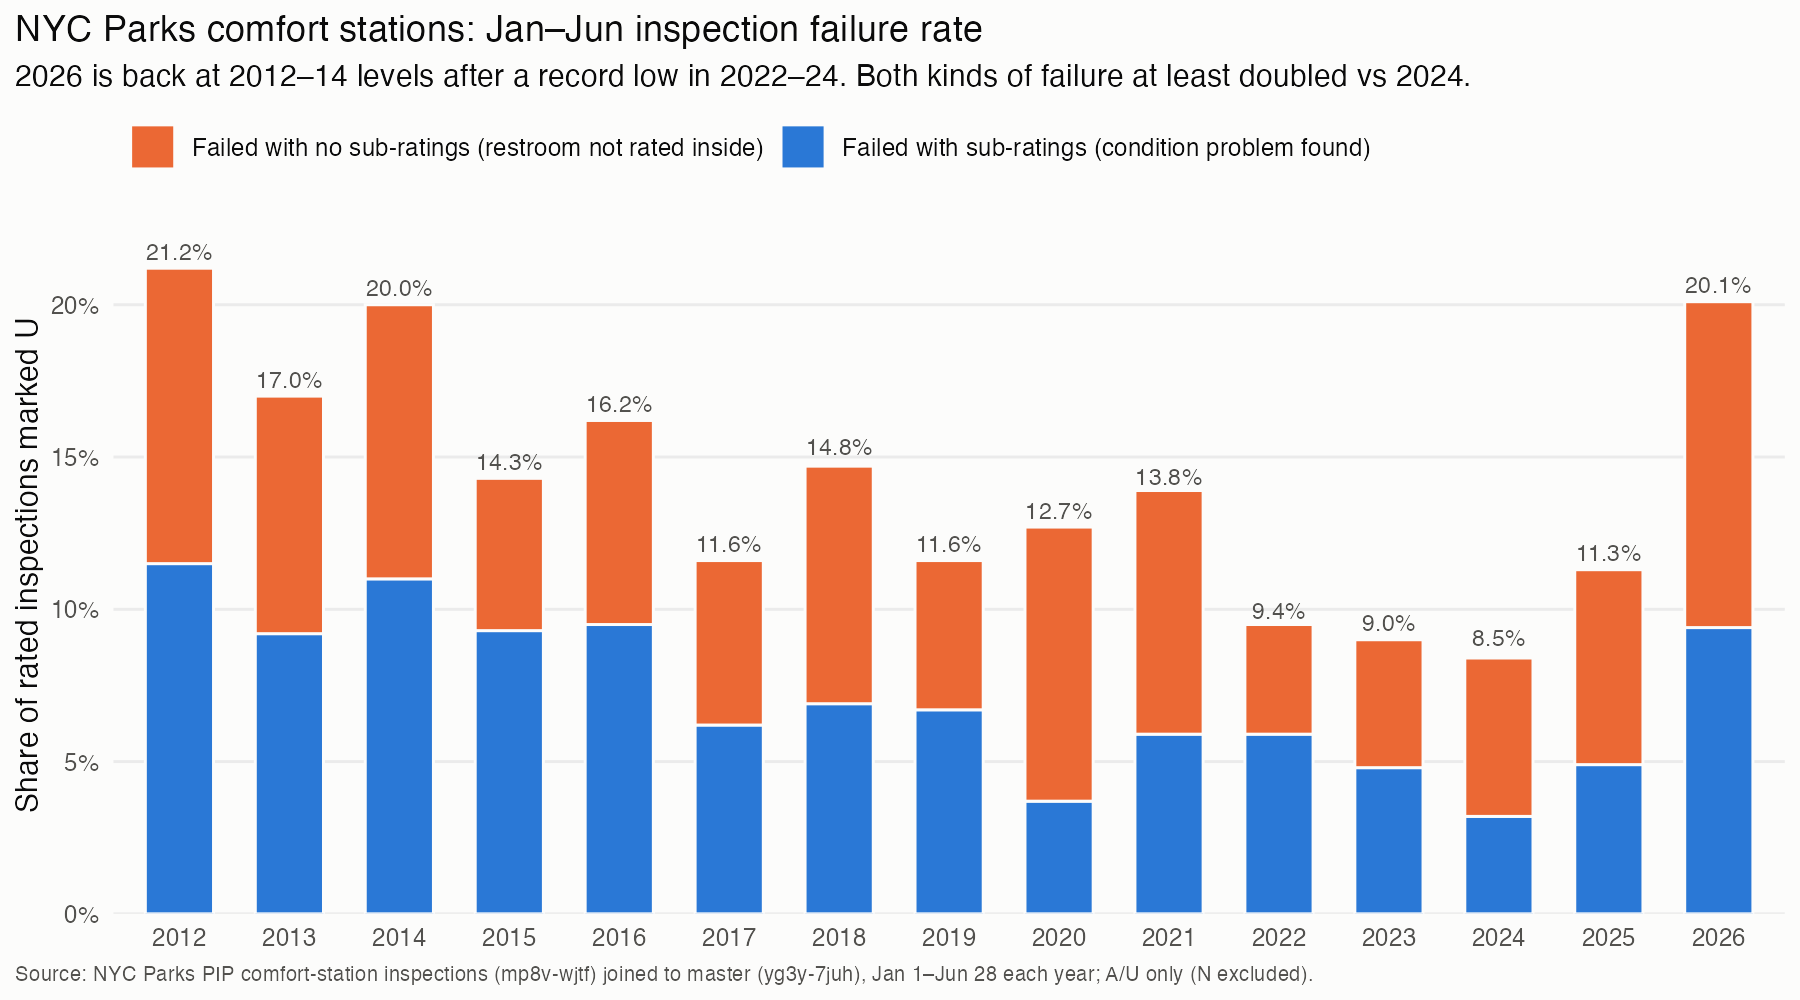
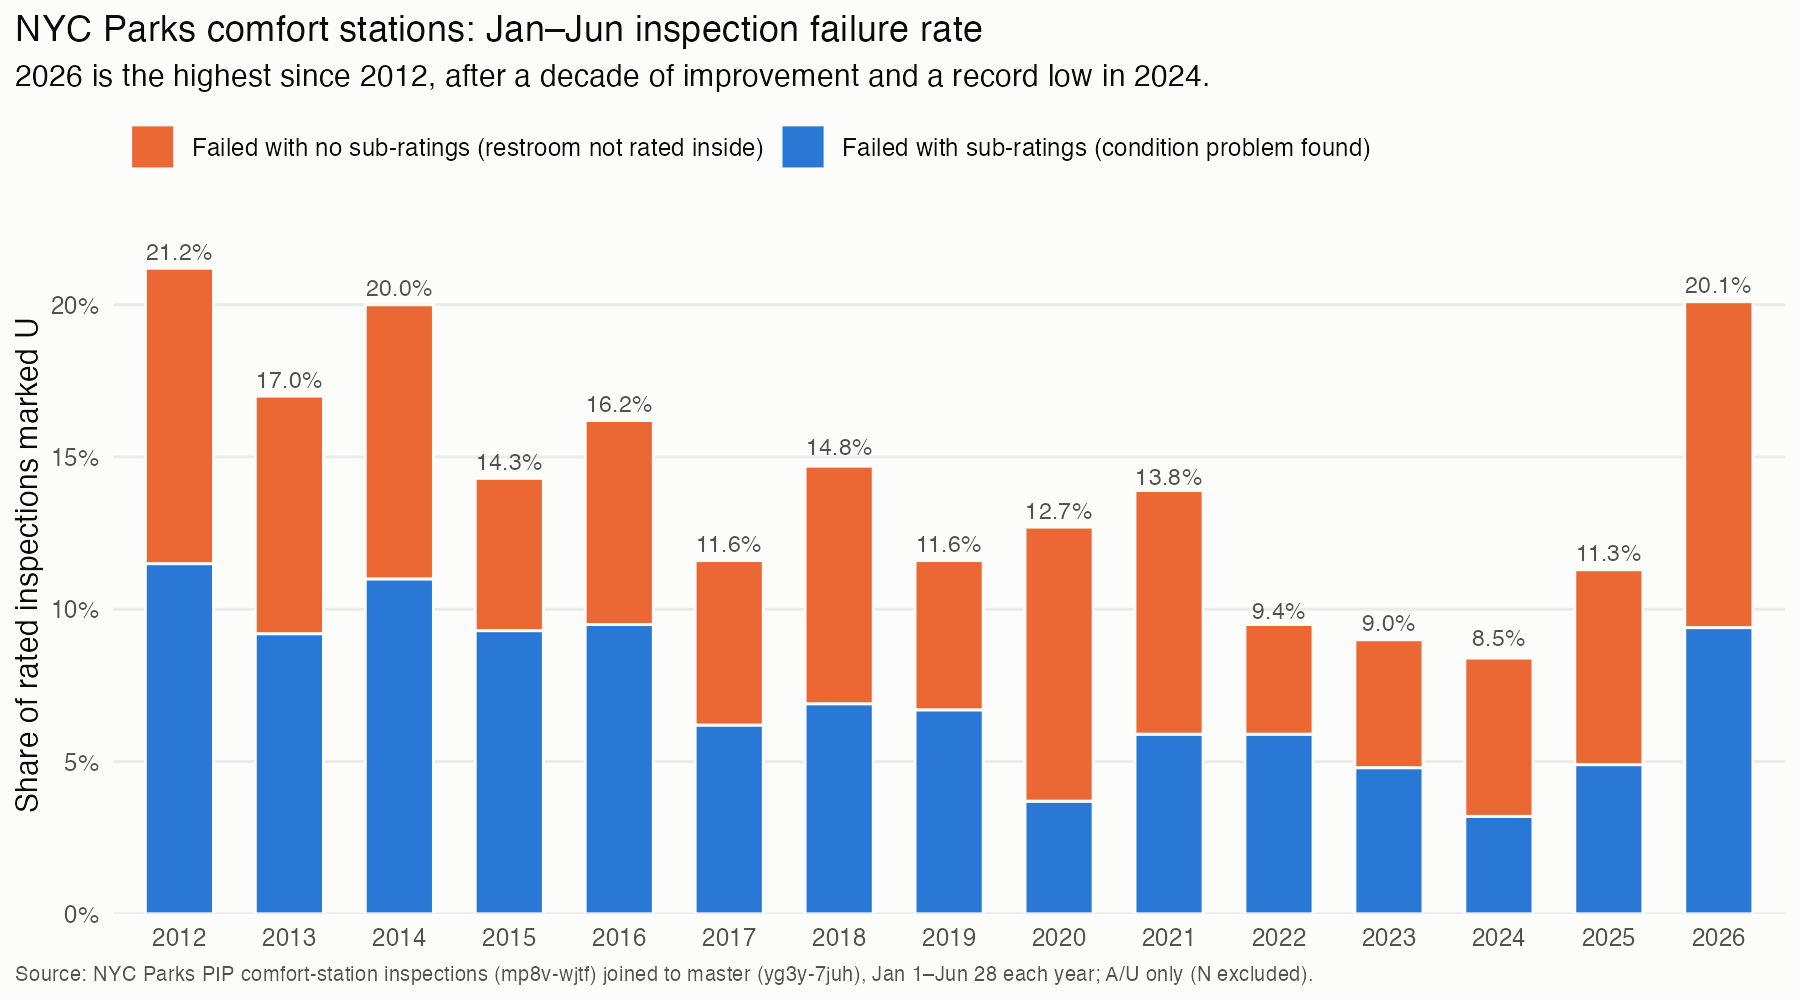
Pivot page: substantive fixes from both cold reads
Charts now match the text (9pm late-close scenario, 2024-only record low, 3-year rule highlighted as a
1-in-5 vs 1-in-8 hit rate). Corrected: logistic, not last-3, won 2024 validation; headline unit is
inspections Jan-Jun, not restrooms 'this spring'; recommendation is a pilot compared with Parks' own
targeting; power figure flagged as a simplified first calculation; evening access framed as estimated;
30% evening share compared with dirty-street complaints (18%).

Changed region(s): [[0.0622, 0.062, 0.8089, 0.093]]

diff --git a/pivot.html b/pivot.html
@@ -363,7 +363,7 @@ figure.chart a.zoom{display:block}
   <nav class="verswitch" aria-label="Site version"><a href="index.html">Current version</a><a href="pivot.html" aria-current="page">Proposed pivot · draft</a></nav>
   <p class="eyebrow">PMBA6093 · Analytics for Managers · Final project · <strong>proposed direction, for team discussion</strong></p>
   <h1>Verify, fix, test</h1>
-  <p class="standfirst">New York has set a target of 2,120 public restrooms by 2035 and has 975 today. Public data cannot prove where new ones are needed. It can show that the restrooms the City already has are failing inspection more often, and it can tell Parks where to check first. So: <strong>verify</strong> where complaints point before building, <strong>fix</strong> the stock with targeted checks, and <strong>test</strong> what works with two randomised trials.</p>
+  <p class="standfirst">New York has set a target of 2,120 public restrooms by 2035; its register lists 975. Public data cannot prove where new ones are needed. It can show that the restrooms the City already has are failing inspection more often, and it can tell Parks where to check first. So: <strong>verify</strong> where complaints point before building, <strong>fix</strong> the stock with targeted checks, and <strong>test</strong> what works with two randomised trials.</p>
   <div class="byline"><span>HKU MBA group project</span><span>Draft for alignment, not final</span><span>Data current to June–September 2026</span><span class="stamp">Drafted 24 September 2026</span></div>
   <p class="changed">A draft for team discussion. The Walkthrough tells the story; Limits sets out what it cannot show; Data &amp; code lists every technique and script.</p>
 </header>
@@ -382,10 +382,10 @@ figure.chart a.zoom{display:block}
 <div class="tldr">
 <p><strong>In one minute</strong></p>
 <ul>
-<li><strong>Question:</strong> New York has promised 2,120 public restrooms by 2035 and has 975. Where should it act first?</li>
+<li><strong>Question:</strong> New York has promised 2,120 public restrooms by 2035; its register lists 975. Where should it act first?</li>
 <li><strong>Finding 1:</strong> public data can point to places that <em>may</em> need restrooms, but cannot prove it.</li>
-<li><strong>Finding 2:</strong> what the data <em>can</em> show is that the restrooms the City already has are failing inspection more often: one in five this spring, the highest since 2012.</li>
-<li><strong>Finding 3:</strong> a simple rule based on each site's inspection history finds almost twice as many failing restrooms as checking at random.</li>
+<li><strong>Finding 2:</strong> what the data <em>can</em> show is that the restrooms the City already has are failing inspection more often: one in five inspections was unacceptable in January–June 2026, the highest since 2012.</li>
+<li><strong>Finding 3:</strong> a simple rule based on each site's inspection history finds a failing restroom in about 1 in 5 checks, against 1 in 8 when checking at random.</li>
 <li><strong>Recommendation: verify, fix, test.</strong> Verify candidate sites on the ground before building. Fix the existing stock by sending checks where history points. Test what actually works with randomised trials.</li>
 </ul>
 </div>
@@ -419,16 +419,16 @@ figure.chart a.zoom{display:block}
 <p class="find"><strong>Takeaway:</strong> the ranking tells the City where to <em>look</em>, not where need is proven. (Only 1 of the pilot's 17 units sits in any of the six.)</p>
 
 <h3 id="when">3 — When? Access runs out after dark</h3>
-<p>Timing gives a second clue: <strong>30%</strong> of complaints are filed between 6pm and midnight, when most restrooms have closed. We turned every restroom's posted opening hours into hour-by-hour availability, then measured the distance from the 50 busiest subway stations to the nearest <em>open</em> one. <span class="mtag out">Beyond class · parsing opening hours</span> <span class="mtag in">S6 · spatial analysis</span></p>
+<p>Timing gives a second clue: <strong>30%</strong> of public-urination complaints are filed between 6pm and midnight, against 18% of 311 dirty-street complaints from the same callers (1.4–1.9× as high, hour by hour). That is when most restrooms have closed. <span class="mtag in">S1–2 · descriptive comparison</span> We turned every restroom's posted opening hours into hour-by-hour availability, then measured the distance from the 50 busiest subway stations to the nearest <em>open</em> one. <span class="mtag out">Beyond class · parsing opening hours</span> <span class="mtag in">S6 · spatial analysis</span></p>
 <figure class="chart"><a class="zoom" href="img/pivot/N4_hubs_without_open_restroom.png" target="_blank" rel="noopener"><img src="img/pivot/N4_hubs_without_open_restroom.png" alt="Bar chart: of the 50 busiest subway hubs, 4 have no open restroom within 500 m at 2pm, 21 at 6pm, 43 at 9pm" loading="lazy"></a></figure>
 <div class="tbox" tabindex="0" role="group" aria-label="Table, scrolls horizontally"><table><thead><tr><th>Time</th><th class="n">Of the 50 busiest stations, how many have no open restroom within 500 m</th></tr></thead><tbody>
 <tr><td>2pm</td><td class="n">4</td></tr>
 <tr><td>6pm</td><td class="n">21 (9 in summer, if park restrooms stay open to 8pm)</td></tr>
 <tr><td><strong>9pm</strong></td><td class="n"><strong>43</strong> (20 if park restrooms stay open to 10pm)</td></tr>
 </tbody></table></div>
-<p class="note">Most Parks restrooms post only "8am–4pm, open later seasonally", so the evening figures depend on the season. Distances are straight-line; real walks are longer.</p>
+<p class="note">These are estimates from posted hours and straight-line distance. Most Parks restrooms post only "8am–4pm, open later seasonally", so actual evening hours need checking on the ground.</p>
 <p class="find"><strong>Takeaway:</strong> after dark, the busiest places have almost nowhere to go.</p>
-<p>Section 3 shows something section 2 could not: at night, restrooms exist on the register but are not usable, and to the public a locked restroom is the same as no restroom. That points to a question the data <em>can</em> answer. Need can't be measured directly, but whether the restrooms already there are working can. <strong>So we turned to the existing restrooms.</strong></p>
+<p>Section 3 points to something section 2 could not: going by posted hours, many restrooms on the register are not available when people need them, and to the public a locked restroom is the same as no restroom. That points to a question the data <em>can</em> answer. Need can't be measured directly, but whether the restrooms already there are working can. <strong>So we turned to the existing restrooms.</strong></p>
 
 <h3 id="turn">4 — Are existing restrooms working? Failure is rising</h3>
 <p>NYC Parks keeps its own list of 736 restrooms (it calls them <em>comfort stations</em>). Inspectors visit them on a schedule and rate each one acceptable or unacceptable; 31,768 ratings are on file. Comparing January–June each year:</p>
@@ -441,29 +441,29 @@ figure.chart a.zoom{display:block}
 </tbody></table></div>
 <ul>
 <li><strong>It is a real change.</strong> The rise from 2024 is +11.6 percentage points (95% confidence interval +7.8 to +15.3), arriving as a step in January 2026. <span class="mtag in">S3 · confidence interval</span></li>
-<li><strong>It is the same buildings getting worse.</strong> The 395 restrooms inspected every year from 2022 to 2026 went from 5.9% to 18.1%. Across all restrooms, comparing each with itself gives +11.4 points. <span class="mtag in">S5 · panel data, fixed effects</span></li>
+<li><strong>Ratings rose even for the same facilities.</strong> The 395 restrooms inspected every year from 2022 to 2026 went from 5.9% to 18.1%. Across all restrooms, comparing each with itself gives +11.4 points. <span class="mtag in">S5 · panel data, fixed effects</span></li>
 <li><strong>It is not just tougher inspectors.</strong> Parks <em>without</em> a restroom were rated no worse (10.2% → 9.6%), and most inspectors who rated both kept their park ratings steady while failing far more restrooms. <span class="mtag in">S5, S8 · difference-in-differences as a placebo</span></li>
 <li><strong>What kind of failure:</strong> structural problems roughly tripled while litter stayed flat. About half the rise is restrooms failed with nothing inside rated, most likely found closed or locked.</li>
 </ul>
-<p class="find"><strong>Takeaway:</strong> need is hard to observe; failure is not. One in five Parks restrooms failed inspection this spring. Whether the cause is wear or closures, a restroom that fails is one the public can't rely on.</p>
+<p class="find"><strong>Takeaway:</strong> need is hard to observe; failure is not. One in five Parks restroom inspections was unacceptable in January–June 2026. Whether the cause is wear or closures, a restroom that fails is one the public can't rely on.</p>
 <p class="note"><strong>Open:</strong> we can't rule out that Parks changed its restroom rating rules in January 2026. This is the first question to put to Parks.</p>
 <p>A citywide rise needs a citywide response, but crews are limited. So the practical question is: <strong>where should Parks send them first?</strong></p>
 
 <h3 id="which">5 — Which restrooms to check first? History predicts the next failure</h3>
 <p>We framed it as a decision Parks could make twice a year: <strong>every January and July, choose 20% of its ~680 restroom sites with recent inspection history for an extra maintenance check</strong>, using only information available on that date. Success = how many of the chosen sites fail their next regular inspection. Over the three test half-years, 244 such inspections found an unacceptable restroom.</p>
 <p>To keep the test fair, the methods learned from 2018–2023, were compared on 2024, and only then scored on 2025–mid-2026, data none of them had seen. <span class="mtag in">S4, S7 · train / validation / test</span></p>
-<figure class="chart"><a class="zoom" href="img/pivot/all_eligible_priority_comparison.png" target="_blank" rel="noopener"><img src="img/pivot/all_eligible_priority_comparison.png" alt="Bar chart: recorded failures caught in 411 check slots: random 48.9, last three inspections 79.1, three-year history rule 86.1, logistic regression 88.0" loading="lazy"></a></figure>
-<div class="tbox" tabindex="0" role="group" aria-label="Table, scrolls horizontally"><table><thead><tr><th>How the 20% are chosen (137 checks per half-year, 411 in total)</th><th class="n">Failures found, out of 244</th></tr></thead><tbody>
-<tr><td>At random (expected)</td><td class="n">49</td></tr>
-<tr><td>Failure share in the last 3 inspections</td><td class="n">79</td></tr>
-<tr><td><strong>Failure share over the last 3 years</strong></td><td class="n"><strong>86</strong></td></tr>
-<tr><td>Logistic regression <span class="mtag in">S6</span></td><td class="n">88</td></tr>
+<figure class="chart"><a class="zoom" href="img/pivot/N7_rule_vs_random.png" target="_blank" rel="noopener"><img src="img/pivot/N7_rule_vs_random.png" alt="Bar chart: share of 411 extra checks that found a failing restroom: random 12%, last three inspections 19%, last three years 21% (highlighted), logistic regression 21%" loading="lazy"></a></figure>
+<div class="tbox" tabindex="0" role="group" aria-label="Table, scrolls horizontally"><table><thead><tr><th>How the 20% are chosen (137 checks per half-year, 411 in total)</th><th class="n">Failing restrooms found</th><th class="n">Share of checks that found one</th></tr></thead><tbody>
+<tr><td>At random (expected)</td><td class="n">49</td><td class="n">12% (about 1 in 8)</td></tr>
+<tr><td>Failure share in the last 3 inspections</td><td class="n">79</td><td class="n">19%</td></tr>
+<tr><td><strong>Failure share over the last 3 years</strong></td><td class="n"><strong>86</strong></td><td class="n"><strong>21% (about 1 in 5)</strong></td></tr>
+<tr><td>Logistic regression <span class="mtag in">S6</span></td><td class="n">88</td><td class="n">21%</td></tr>
 </tbody></table></div>
 <ul>
-<li><strong>History works:</strong> the 3-year rule finds about 1.8× as many failing restrooms as random checks.</li>
+<li><strong>History works:</strong> the 3-year rule turns about 1 in 5 checks into a found failure, against 1 in 8 at random.</li>
 <li><strong>A model adds little:</strong> logistic regression and the 3-year rule are within noise of each other (−2.3 to +3.3 percentage points of failures found), and decision trees found nothing useful. <span class="mtag out">Beyond class · bootstrap confidence interval</span> <span class="mtag in">S7 · decision trees</span></li>
-<li><strong>Which rule:</strong> on 2024 the last-3-inspections rule looked best; on the unseen test years the 3-year rule matched the model. We recommend piloting the 3-year rule, not declaring it proven.</li>
-<li><strong>It is useful, not precise:</strong> even the best list of 20% catches only about a third of all failures, and about a third of failures (88 of 244) happen at sites with a clean 3-year record.</li>
+<li><strong>Which rule:</strong> on 2024, logistic regression scored best, with the last-3-inspections rule the best simple option; on the unseen test years the 3-year rule matched the model. Because a simple rule does as well and is easier to run, we recommend piloting the 3-year rule, not declaring it proven.</li>
+<li><strong>It is useful, not precise:</strong> the best list still misses most failures: it catches 86 of the 244. And 88 of the 244 happened at sites with a clean 3-year record, which no history-based list can flag.</li>
 <li><strong>Complaints don't help here:</strong> adding nearby 311 complaints to the history barely changes the result (67 → 68 failures found on a matched sample). <span class="mtag in">S6 · model comparison</span></li>
 </ul>
 <p class="find"><strong>Takeaway:</strong> a transparent rule (rank sites by their failure share over the past three years) points crews to failing restrooms almost twice as well as chance, with no model needed. Regular inspections must continue to catch the third that fail without warning.</p>
@@ -480,7 +480,7 @@ figure.chart a.zoom{display:block}
 <ul>
 <li>Start with the park restrooms beside the two largest complaint hot spots, Gun Hill Playground (Williamsbridge) and Gorman Playground (East Elmhurst); then extend to 51 restrooms in 10 of the high-complaint neighbourhoods from section 2 whose restrooms close earliest.</li>
 <li>Roll out in random order over ten months; cost up to $2.2M.</li>
-<li>Complaints are too few to measure the effect, so the outcome is public-urination summonses (police tickets). With these numbers, only a change of 37% or more could be told apart from chance. <span class="mtag out">Beyond class · power analysis</span></li>
+<li>Complaints are too few to measure the effect, so the outcome is public-urination summonses (police tickets). A first, simplified power calculation suggests only large changes (around 37% or more) could be detected; the final calculation must reflect the staggered rollout. <span class="mtag out">Beyond class · power analysis</span></li>
 </ul>
 <p>The same thinking applies to the 17-unit pilot: judge it by the hours each unit is found open and working, not by units installed. <span class="tag-team" title="From team research (Steph, Candy) — service measurement framework: cost per verified open hour and operator data spec">Team research · Steph, Candy</span></p>
 <p class="find"><strong>Takeaway:</strong> two randomised tests would show whether targeted checks and longer hours actually change conditions, not just where problems are found.</p>
@@ -488,7 +488,7 @@ figure.chart a.zoom{display:block}
 <h3 id="recommend">7 — Recommendation: verify, fix, test</h3>
 <div class="tbox" tabindex="0" role="group" aria-label="Table, scrolls horizontally"><table><thead><tr><th></th><th>Who</th><th>Do this</th></tr></thead><tbody>
 <tr><td><strong>Verify</strong></td><td>Mayor's Office, in the LL58 strategy</td><td>Use the neighbourhood ranking to decide where to look; confirm need on the ground before committing to a new building (median about $4M each)</td></tr>
-<tr><td><strong>Fix</strong></td><td>NYC Parks</td><td>Every January and July, send extra checks to the 20% of sites with the worst 3-year failure record; keep regular inspections everywhere</td></tr>
+<tr><td><strong>Fix</strong></td><td>NYC Parks</td><td>Pilot extra checks, with a defined repair response, at the 20% of sites with the worst 3-year failure record (about 137 per half-year); compare with Parks' current targeting; keep regular inspections everywhere</td></tr>
 <tr><td><strong>Test</strong></td><td>Parks, Mayor's Office, Department of Transportation</td><td>Run both trials in random order; publish verified open hours, closures and repairs</td></tr>
 </tbody></table></div>
 <p><strong>What this does not claim:</strong> that checks or longer hours reduce failures or complaints, or any return on investment. The tests are how the City would find out.</p>
@@ -529,11 +529,11 @@ figure.chart a.zoom{display:block}
 
 <h3>2. The prediction rule</h3>
 <ul>
-<li>The 3-year rule, exactly: <code>(failures + 0.5) ÷ (rated visits + 5)</code> over the previous three years, specified before any results were seen. On 2024, a simpler last-3-inspections rule scored best; the 3-year rule matched the model only in the test years, so it is the candidate to pilot rather than a proven policy.</li>
+<li>The 3-year rule, exactly: <code>(failures + 0.5) ÷ (rated visits + 5)</code> over the previous three years, specified before any results were seen. On 2024, logistic regression scored best (precision 0.19), with the last-3-inspections rule the best simple option (0.18); the 3-year rule matched the model only in the test years, so it is the candidate to pilot rather than a proven policy.</li>
 <li>Ranking quality (AUC) is 0.62–0.66. With a 20% budget, most failures still fall outside the list. Nine reasonable logistic versions range from 75 to 88 failures found.</li>
 <li>43 sites fail in two or more of the three test periods and account for 91 of the 244 failures: much of the gain comes from chronic sites.</li>
 <li>Predicted risk levels ran low in 2026 (12% predicted, 20% observed), so they need refreshing each cycle.</li>
-<li>Of 2,050 site-checks in the test period, 17.8% have no known outcome (324 unrated first visits, 41 no visit), and these lean towards riskier sites. Missing ratings are left out, not treated as passes.</li>
+<li>Of 2,050 site-checks in the test period, 17.8% have no known outcome (324 unrated first visits, 41 no visit), and these lean towards riskier sites. These sites stay in the pool the 20% is chosen from; a check there can only count as a found failure if a rating exists.</li>
 <li>An independent rebuild from the raw data reproduced the result exactly and found no future information in the predictions.</li>
 </ul>
 
@@ -548,7 +548,7 @@ figure.chart a.zoom{display:block}
 
 <h3>5. The trials</h3>
 <ul>
-<li>Complaints are too sparse to measure the hours trial (smallest detectable change 156%), so it uses summonses (37%). Summonses partly track policing; alcohol summonses act as a placebo for general patrol changes.</li>
+<li>Complaints are too sparse to measure the hours trial (smallest detectable change 156%), so it uses summonses (37%). Both figures come from a simple Poisson calculation that ignores the staggered, clustered rollout; the real figure will differ. Summonses partly track policing; alcohol summonses act as a placebo for general patrol changes.</li>
 <li>The hours-trial cost ($2.2M) assumes all 51 restrooms open longer for all ten months. The areas are the high-complaint neighbourhoods whose restrooms' median posted day is under 9 hours, or where none opens to 10pm.</li>
 <li>The check trial has no power calculation or crew plan yet.</li>
 <li>The 17-unit pilot can't be judged on complaints: only 20 a year are filed near all 17 sites, so only a 73% drop would be detectable (44% on summonses). Against scheduled hours it costs $42.98 per unit-hour.</li>
@@ -557,7 +557,7 @@ figure.chart a.zoom{display:block}
 <h3>6. Data dates and coverage</h3>
 <ul>
 <li>Inspections end on 28 June 2026. Only Parks restrooms are inspected this way; library and other restrooms are not covered.</li>
-<li>Evening access uses straight-line distance and posted hours, so real access is worse.</li>
+<li>Evening access uses straight-line distance and posted hours: walks are longer than straight lines, but actual seasonal hours may be longer than posted, so field checks are needed.</li>
 <li>Whether ratings are edited after entry can't be tested from a single snapshot of the data.</li>
 </ul>
 </div>
